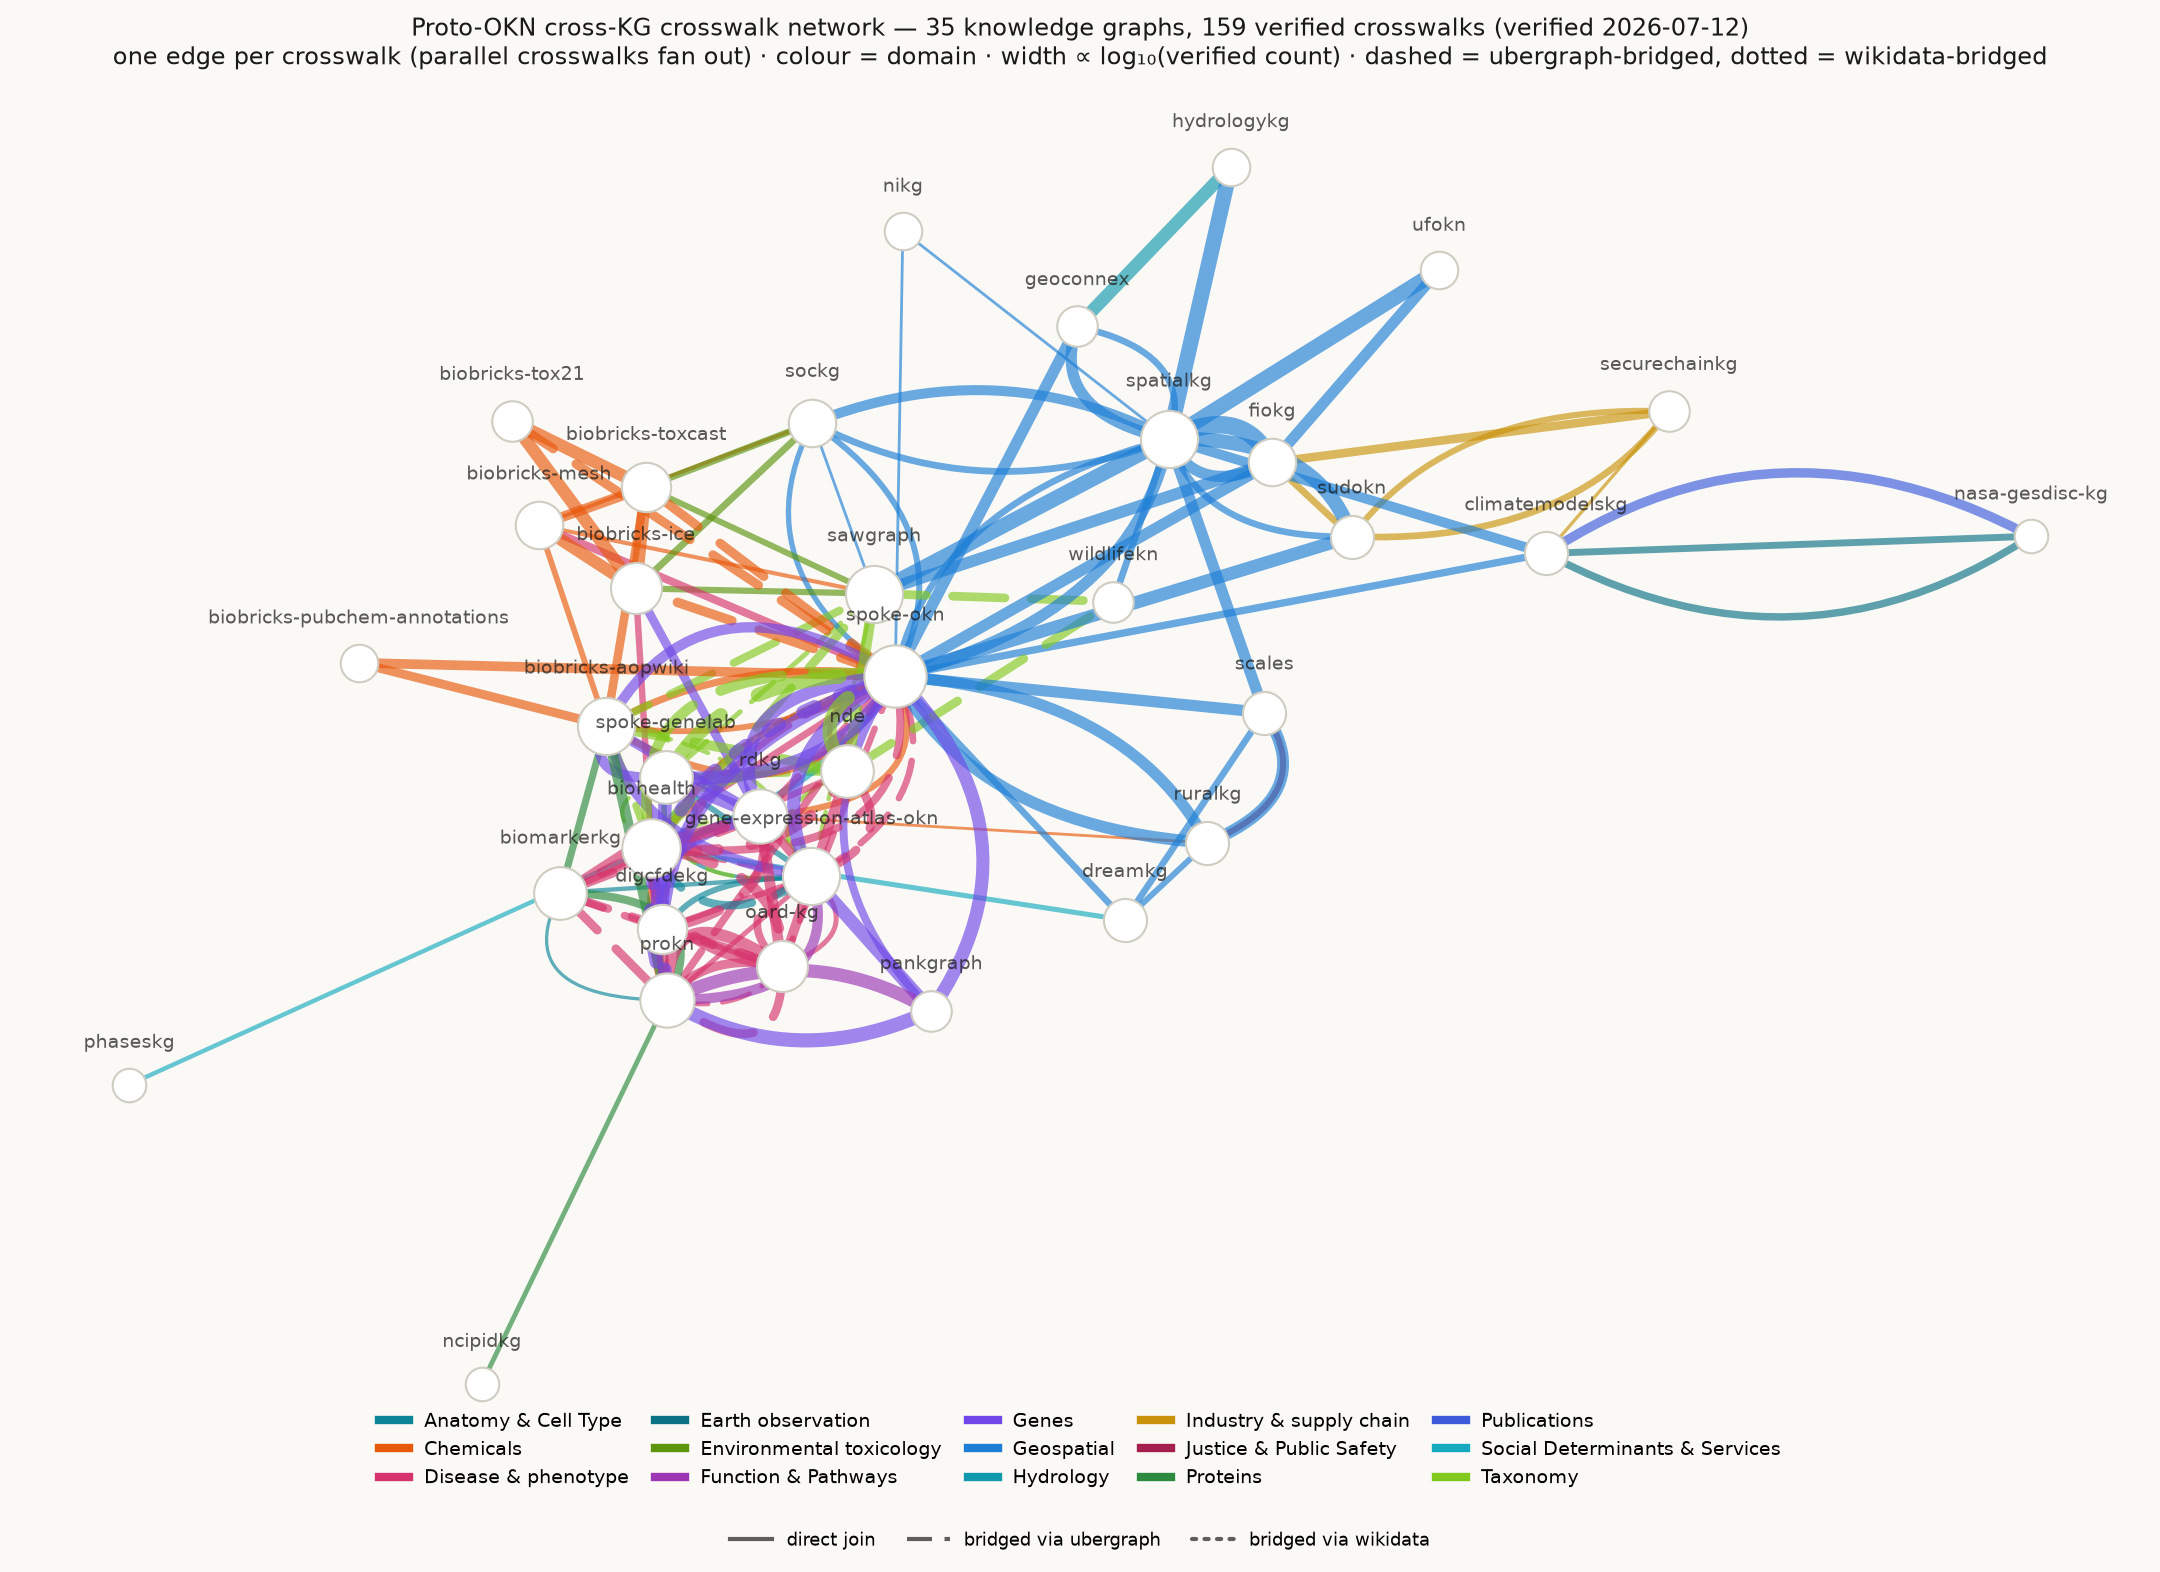
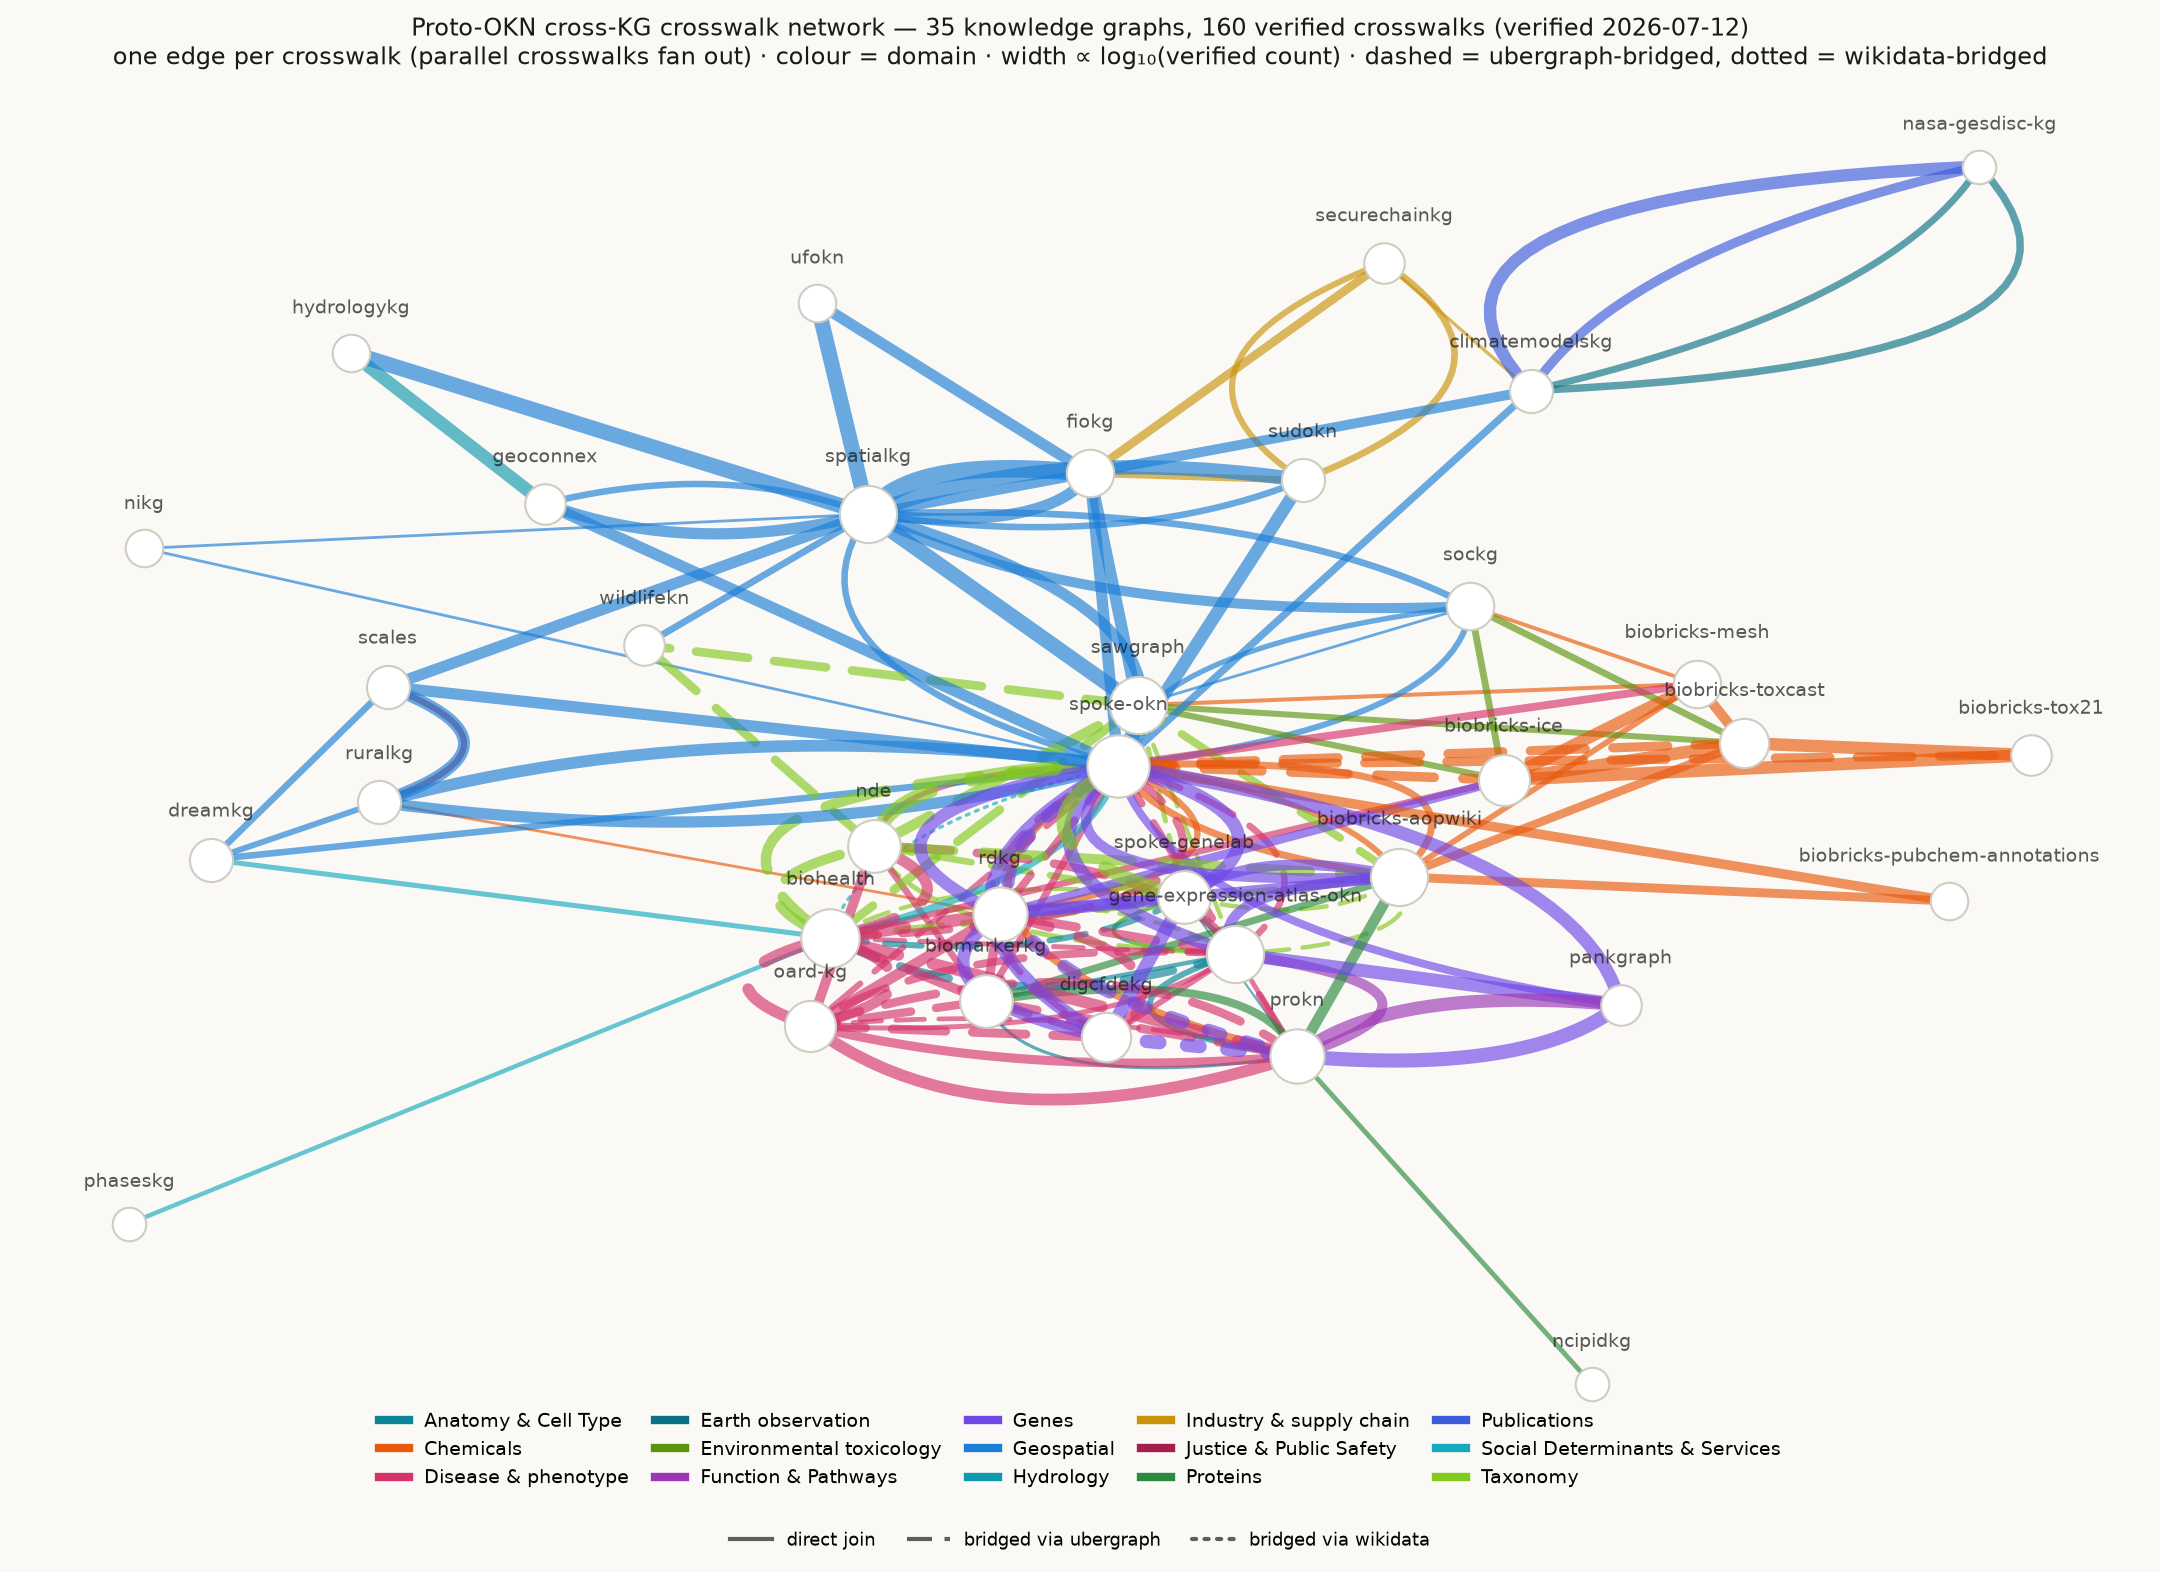
feat(crosswalks): add PB2 climatemodelskg×nasa-gesdisc-kg author-name join, with caveat (159→160)
Fourth edge on this pair, after PB1 (publication DOI, 651), EO1/EO2 (GCMD
instrument/platform). Surfaced by the entities.csv refresh, which exposed an
Author class on BOTH sides. 8,391 of climatemodelskg's 10,029 distinct author
names (83.7%) match a nasa-gesdisc-kg Author label.

THIS IS A NAME JOIN, NOT AN IDENTITY JOIN, and the entry says so loudly. An
ORCID join is impossible: nasa carries orcid (60% of its authors), openalexId
and ror, but climatemodelskg's Author nodes carry only #name and #uuid.

Ambiguity, measured against nasa's orcid as ground truth for "distinct real
human" (verified live 2026-07-12):
- 6,983 of the 8,391 matched names reach >=1 ORCID-bearing nasa author
- 787 of those (11.3%) resolve to MORE THAN ONE distinct ORCID
- 14,288 distinct ORCIDs sit behind those 6,983 names (2.05x fan-out)
- worst offenders: "Yang Liu" = 179 distinct ORCIDs, "Wei Wang" = 164,
  "Wei Li" = 127, "Lei Wang" = 122, "Yan Li" = 115

So ~89% of ORCID-checkable matches are 1:1, but the ambiguous 11% carry enormous
fan-out and are concentrated in Chinese-origin names — which also biases any
naive per-author aggregate. The entry carries a `caveat` field (surfaced by
get_join_strategy alongside the recipe) restricting it to COHORT/AGGREGATE use
and forbidding person-level claims, and directs callers to prefer PB1 whenever
the question can be answered at the paper level.

Note on the measurement: ambiguity must be counted over distinct ORCIDs, not
[…]

diff --git a/docs/crosswalks/crosswalk-network.html b/docs/crosswalks/crosswalk-network.html
@@ -43,7 +43,7 @@
 <body>
 <header>
   <h1>Proto-OKN cross-KG crosswalk network</h1>
-  <p>35 knowledge graphs, 159 verified crosswalks (verified 2026-07-12). One edge per crosswalk &mdash; parallel crosswalks between a pair fan out as arcs · color = data domain · width &#8733; log&#8321;&#8320;(verified count).</p>
+  <p>35 knowledge graphs, 160 verified crosswalks (verified 2026-07-12). One edge per crosswalk &mdash; parallel crosswalks between a pair fan out as arcs · color = data domain · width &#8733; log&#8321;&#8320;(verified count).</p>
   <p class="tip">&#9654; <b>Hover</b> a node or edge for detail · <b>drag</b> to rearrange · <b>scroll</b> to zoom · <b>double-click</b> a node to unpin it.<br>&#9654; <b>Click a legend item</b> &mdash; a domain (e.g. <b>Chemicals</b>) or a line style (e.g. <b>via ubergraph</b>) &mdash; to toggle those edges.</p>
 </header>
 <div class="bar" id="legend"></div>
@@ -217,6 +217,7 @@ const R=[
 ["P",["ncipidkg","prokn"],12,"UniProt"],
 
 ["B",["climatemodelskg","nasa-gesdisc-kg"],651,"DOI"],
+["B",["climatemodelskg","nasa-gesdisc-kg"],8391,"author name (string; NOT an ORCID — see the entry's caveat)"],
 
 ["L",["spoke-okn","biohealth"],3,"MeSH→UMLS (wikidata)"],
 ["L",["spoke-okn","biohealth"],89,"concept label (SNOMED preferred term ↔ UMLS concept name)"],

diff --git a/src/mcp_okn/crosswalks.py b/src/mcp_okn/crosswalks.py
@@ -161,6 +161,7 @@ _DOMAIN_BY_SHARED_KEY: dict[str, str] = {
     "NAICS": "Industry & supply chain",
     "SUDOKN_industry_sector": "Industry & supply chain",
     "DOI": "Publications",
+    "author name (string; NOT an ORCID — see the entry's caveat)": "Publications",
     "GCMD instrument": "Earth observation",
     "GCMD platform": "Earth observation",
     "GO": "Function & Pathways",

diff --git a/docs/crosswalks/crosswalks_example.md b/docs/crosswalks/crosswalks_example.md
@@ -374,7 +374,7 @@ BioHealthKG's 6 NCBITaxon overlaps (T15–T20) join by **exact scientific-name m
 
 **Question generation.** The research questions were generated by the model (claude-opus-4-8), not hand-authored. For each verified crosswalk, the model inspected the two (or three) graphs' schemas and the shared identifier, then proposed questions that genuinely require the join, and ran and validated each one. The resulting questions are illustrative examples of what each crosswalk supports rather than a curated or exhaustive set.
 
-**Crosswalk selection.** Candidate joins came from the `mcp-okn list_crosswalks` registry (159 hand-verified crosswalks, verified 2026-07-12; the oard-kg×prokn DOID and OMIM-bridge examples were retired after ProKN v0.0.5 migrated its disease cross-references off `rdfs:seeAlso`, the scales×ruralkg NIBRS offense-category crosswalk CJ1 was added 2026-07-01 after the scales entities.csv update populated `fbi:OffenseUCRCode`, the sockg×sawgraph S2 Level-13 leaf-to-leaf crosswalk H3 was added 2026-07-11, the climatemodelskg×nasa-gesdisc-kg DOI crosswalk PB1 was added 2026-07-12 — de-islanding nasa-gesdisc-kg once its deployed namespace, distinct from the stale one in its entities.csv, was probed directly — and the climatemodelskg×nasa-gesdisc-kg GCMD instrument/platform label crosswalks EO1/EO2 were added 2026-07-12 after climatemodelskg's entities.csv was refreshed to expose its Instrument/Platform classes; and a further 14 crosswalks were added 2026-07-12 from a systematic sweep of the refreshed `<kg>_entities.csv` schemas — the geoconnex×hydrologykg NHDPlus-COMID join HY1, biobricks-mesh's entry into the CAS chemical cluster on the newly exposed `mesh:registryNumber` (M3–M7, superseding the M1 note that MeSH was "a disease/anatomy bridge, not a chemical one"), AOP-Wiki's new CHEMINF identifier surface (P2 de-islanding biobricks-pubchem-annotations at 401/403 PubChem CIDs, plus P3/CB1/DB1 into spoke-okn), climatemodelskg's first attachment to the SAWGraph spatial hub via a composite county-FIPS key bridged through spoke-okn (L7), and the ZIP axis J4–J6; the same sweep corrected ET1/ET2, whose dashed-only CAS regex had silently ignored 78 of SAWGraph's 131 CAS literals and undercounted the sawgraph×ice join 12→39 and sawgraph×toxcast 7→32). For each pair (or triple) of knowledge graphs, `get_join_strategy` supplied the precomputed join recipe — the shared identifier, the predicate/role on each side, the IRI-normalization rewrite needed to make the two graphs' identifiers literally equal, and a verified non-zero row count. A crosswalk was only written up once a join returned rows that genuinely answered the research question.
+**Crosswalk selection.** Candidate joins came from the `mcp-okn list_crosswalks` registry (160 hand-verified crosswalks, verified 2026-07-12; the oard-kg×prokn DOID and OMIM-bridge examples were retired after ProKN v0.0.5 migrated its disease cross-references off `rdfs:seeAlso`, the scales×ruralkg NIBRS offense-category crosswalk CJ1 was added 2026-07-01 after the scales entities.csv update populated `fbi:OffenseUCRCode`, the sockg×sawgraph S2 Level-13 leaf-to-leaf crosswalk H3 was added 2026-07-11, the climatemodelskg×nasa-gesdisc-kg DOI crosswalk PB1 was added 2026-07-12 — de-islanding nasa-gesdisc-kg once its deployed namespace, distinct from the stale one in its entities.csv, was probed directly — and the climatemodelskg×nasa-gesdisc-kg GCMD instrument/platform label crosswalks EO1/EO2 were added 2026-07-12 after climatemodelskg's entities.csv was refreshed to expose its Instrument/Platform classes; and a further 14 crosswalks were added 2026-07-12 from a systematic sweep of the refreshed `<kg>_entities.csv` schemas — the geoconnex×hydrologykg NHDPlus-COMID join HY1, biobricks-mesh's entry into the CAS chemical cluster on the newly exposed `mesh:registryNumber` (M3–M7, superseding the M1 note that MeSH was "a disease/anatomy bridge, not a chemical one"), AOP-Wiki's new CHEMINF identifier surface (P2 de-islanding biobricks-pubchem-annotations at 401/403 PubChem CIDs, plus P3/CB1/DB1 into spoke-okn), climatemodelskg's first attachment to the SAWGraph spatial hub via a composite county-FIPS key bridged through spoke-okn (L7), and the ZIP axis J4–J6; the same sweep corrected ET1/ET2, whose dashed-only CAS regex had silently ignored 78 of SAWGraph's 131 CAS literals and undercounted the sawgraph×ice join 12→39 and sawgraph×toxcast 7→32). For each pair (or triple) of knowledge graphs, `get_join_strategy` supplied the precomputed join recipe — the shared identifier, the predicate/role on each side, the IRI-normalization rewrite needed to make the two graphs' identifiers literally equal, and a verified non-zero row count. A crosswalk was only written up once a join returned rows that genuinely answered the research question.
 
 **Per-question workflow.** Each transcript followed the same sequence: (1) `list_kgs` / `describe_kg` to choose the graphs; (2) `get_schema` on each graph to learn its classes, predicates and property names; (3) `probe_namespaces` where the join key is an ontology term, to confirm which identifier scheme actually populates the predicate (e.g. DOID vs MONDO, Ensembl vs Entrez vs symbol); (4) `get_join_strategy` (falling back to `find_crosswalks` only on an `unknown` result) to fix the bridge; and (5) one or more `sparql_query` calls scoping each graph with `GRAPH <https://purl.org/okn/frink/kg/{shortname}> { … }` so a single query spans multiple named graphs.
 

diff --git a/docs/crosswalks/proto-okn-crosswalk-inventory.md b/docs/crosswalks/proto-okn-crosswalk-inventory.md
@@ -18,7 +18,7 @@ list crosswalks with examples
 
 🧠 **Assistant**
 
-Here are all 159 precomputed cross-KG crosswalks (verified through 2026-07-12), grouped by domain. Each shows the knowledge graphs joined, the shared identifier, the verified overlap count, and example questions the join answers.
+Here are all 160 precomputed cross-KG crosswalks (verified through 2026-07-12), grouped by domain. Each shows the knowledge graphs joined, the shared identifier, the verified overlap count, and example questions the join answers.
 
 ## Anatomy & Cell Type
 
@@ -219,6 +219,7 @@ Here are all 159 precomputed cross-KG crosswalks (verified through 2026-07-12), 
 | KGs | Shared key | Count | Examples |
 |---|---|---|---|
 | climatemodelskg ↔ nasa-gesdisc-kg | DOI | 651 | For a climate-modeling paper in climatemodelskg (by DOI), does nasa-gesdisc-kg record that same publication among the works citing or using NASA Earth-science datasets - and which NASA datasets, instruments, or platforms does it connect to?<br><br>How many of climatemodelskg's papers are also in nasa-gesdisc-kg's publication set, joined on DOI? |
+| climatemodelskg ↔ nasa-gesdisc-kg | author name (string; NOT an ORCID — see the entry's caveat) | 8,391 | At the COHORT level, how much overlap is there between the authors of climate-modeling papers (climatemodelskg) and the authors of papers citing NASA GES DISC Earth-observation datasets - i.e. is the climate-modeling community also the EO-data-using community?<br><br>How many climatemodelskg author names also appear as NASA GES DISC authors (note: a name match is NOT a person match - 11.3% of matched names resolve to more than one distinct ORCID)? |
 
 ## Social Determinants & Services
 

diff --git a/README.md b/README.md
@@ -57,7 +57,7 @@ where a question one graph can't answer alone becomes answerable by combining tw
 This section catalogs the verified crosswalks and shows the queries that exercise
 them.
 
-A visual map of the whole network — all 159 crosswalks across 35 graphs, drawn as
+A visual map of the whole network — all 160 crosswalks across 35 graphs, drawn as
 direct KG-to-KG edges (edge width ∝ log of the verified join count). Each crosswalk is
 its own edge, so multiple crosswalks between the same pair of graphs fan out as parallel
 arcs. Identifier-bridged joins (e.g. `DOID↔MONDO` via `ubergraph`, `HGNC→Entrez` via
